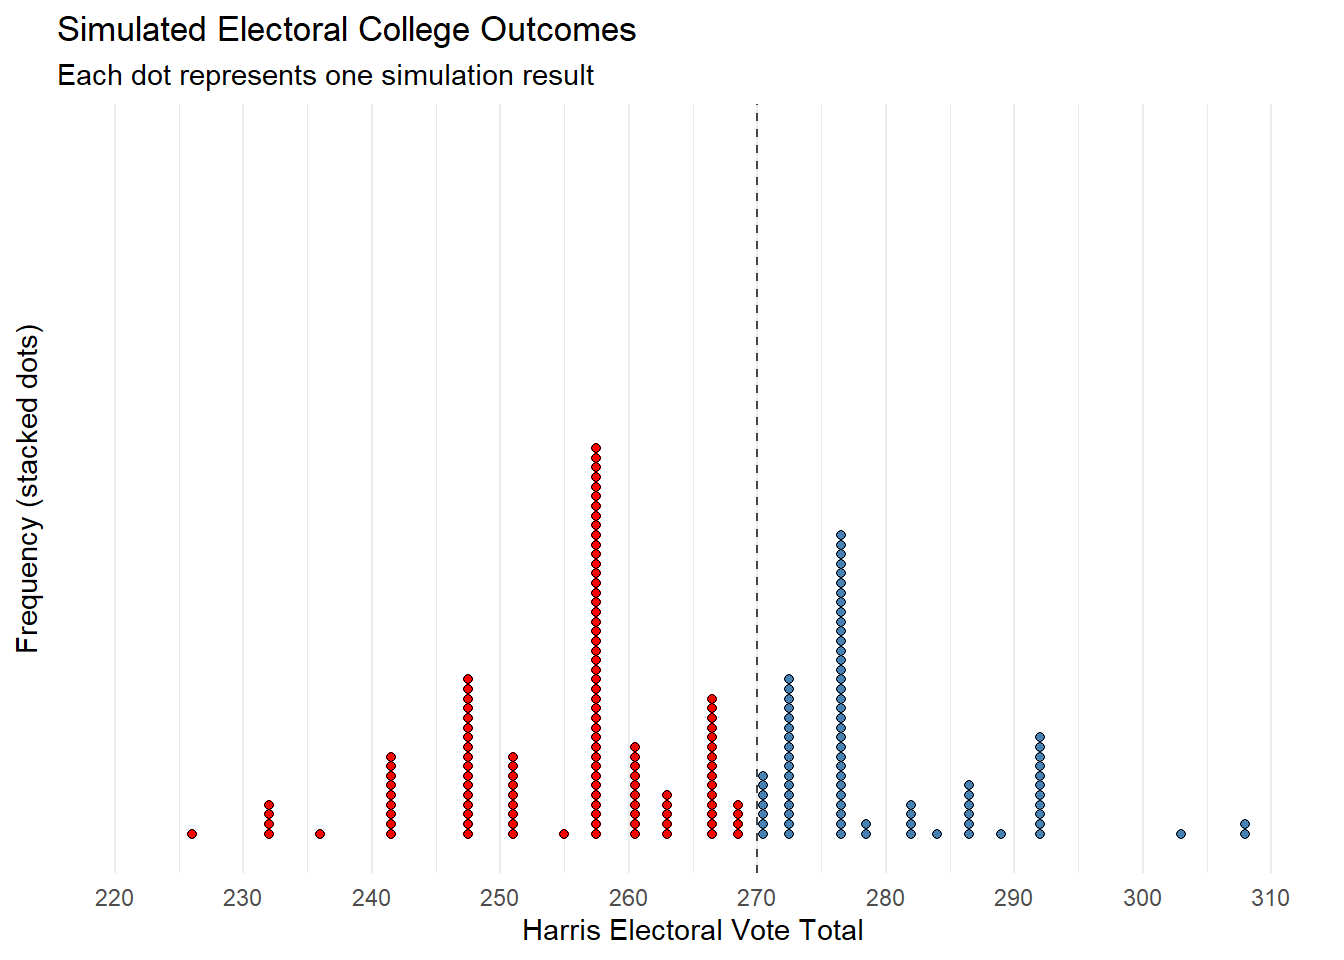
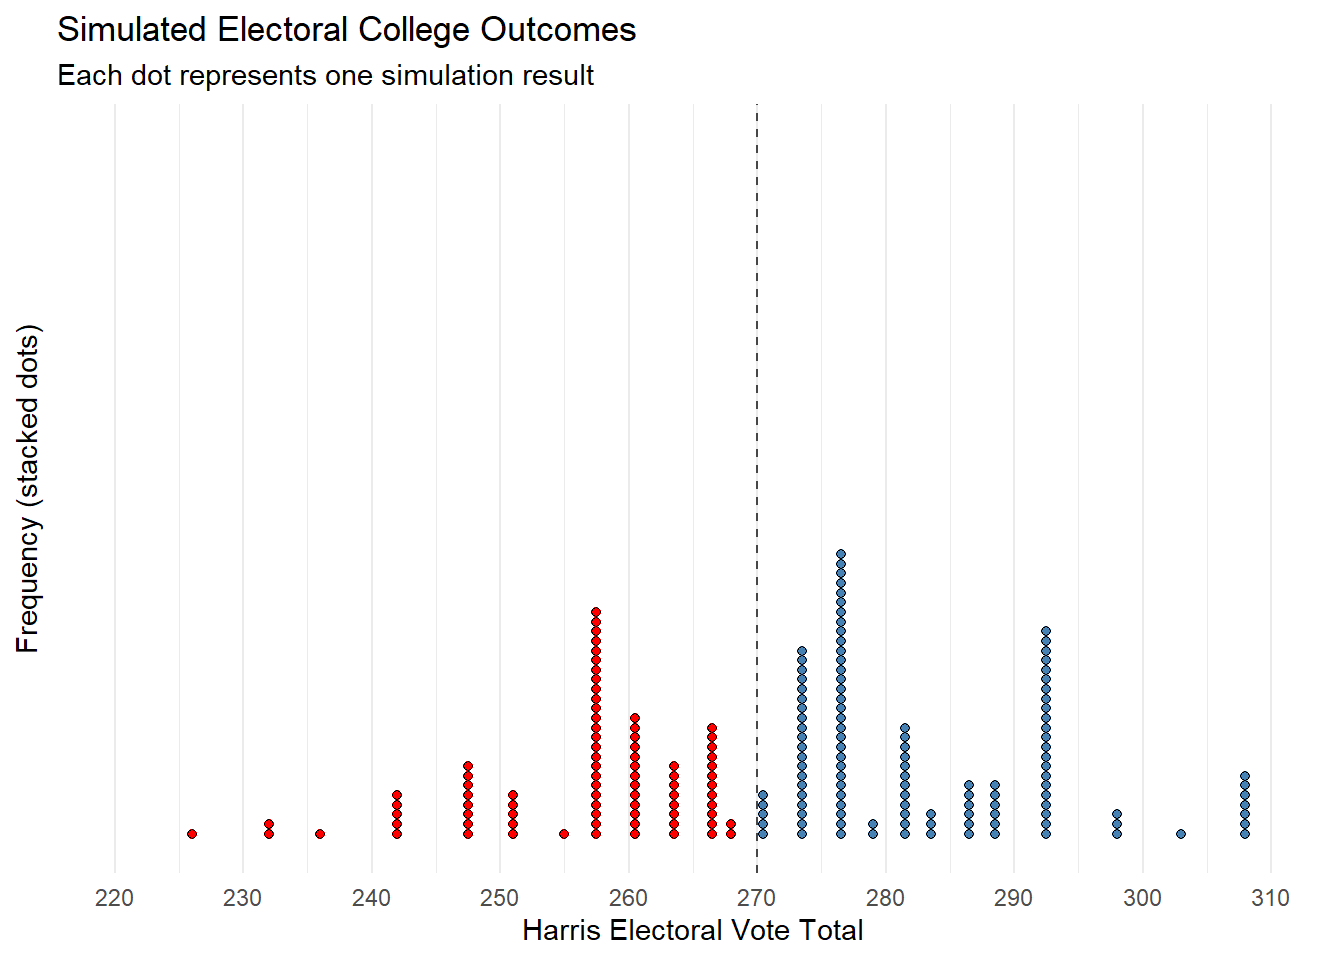
done w/ code part 4

diff --git a/public/post/2024/11/04/final-prediction/index.html b/public/post/2024/11/04/final-prediction/index.html
@@ -52,21 +52,27 @@
 <script src="https://example.org/post/2024/11/04/final-prediction/index_files/plotly-main/plotly-latest.min.js"></script>
 <script src="https://example.org/post/2024/11/04/final-prediction/index_files/kePrint/kePrint.js"></script>
 <link href="https://example.org/post/2024/11/04/final-prediction/index_files/lightable/lightable.css" rel="stylesheet" />
-<pre><code>##                         state prediction_2024
-## Arizona               Arizona        47.79392
-## Georgia               Georgia        49.23295
-## Michigan             Michigan        51.41176
-## Nevada                 Nevada        51.68528
-## North Carolina North Carolina        49.24651
-## Pennsylvania     Pennsylvania        50.30364
-## Wisconsin           Wisconsin        50.68785
-</code></pre>
-<p>#Model 1</p>
-<p>= _0 + _1  + _2  + _3  + _4  + _5  +</p>
-<h1 id="model-2">Model 2</h1>
-<p>= _0 + _1  + _2  + _3  + _4  + _5  +</p>
-<h1 id="model-3">Model 3</h1>
-<p>= _0 + _1  + _2  + _3  + _4  + _5  + _6  + _7  + _8  + _9  +</p>
+<h1 id="model-equations">Model Equations</h1>
+<ol>
+<li>
+<p>Model 1:
+</p>
+$$
+    D\_pv2p = \alpha + \beta_1(\text{state}) + \beta_2(\text{D\_pv2p\_lag1}) + \beta_3(\text{D\_pv2p\_lag2}) + \beta_4(\text{updated\_rdpi} \times \text{incumbent\_party}) + \beta_5(\text{dpi\_inflation\_adjusted} \times \text{incumbent\_party}) + \epsilon
+    $$</li>
+<li>
+<p>Model 2:
+</p>
+$$
+    D\_pv2p = \alpha + \beta_1(\text{state}) + \beta_2(\text{polling\_trend\_5\_1}) + \beta_3(\text{polling\_trend\_10\_6}) + \beta_4(\text{current\_week}) + \beta_5(\text{support\_DEM\_1}) + \beta_6(\text{support\_DEM\_2}) + \beta_7(\text{support\_DEM\_3}) + \epsilon
+    $$</li>
+<li>
+<p>Model 3:
+</p>
+$$
+    D\_pv2p = \alpha + \beta_1(\text{state}) + \beta_2(\text{D\_pv2p\_lag1}) + \beta_3(\text{D\_pv2p\_lag2}) + \beta_4(\text{support\_DEM\_1}) + \beta_5(\text{polling\_trend\_5\_1}) + \beta_6(\text{polling\_trend\_10\_6}) + \beta_7(\text{dpi\_inflation\_adjusted} \times \text{incumbent\_party}) + \beta_8(\text{unemployment\_growth\_quarterly} \times \text{incumbent\_party}) + \beta_9(\text{updated\_rdpi} \times \text{incumbent\_party}) + \epsilon
+    $$</li>
+</ol>
 <h1 id="weights">Weights</h1>
 <table class="table table-striped table-hover table-condensed table-responsive" style="width: auto !important; margin-left: auto; margin-right: auto;">
 <caption>
@@ -210,7 +216,7 @@ RMSE.2020
 Arizona
 </td>
 <td style="text-align:right;width: 6em; text-align: center;">
-0.6380
+0.6719
 </td>
 </tr>
 <tr>
@@ -218,7 +224,7 @@ Arizona
 Georgia
 </td>
 <td style="text-align:right;width: 6em; text-align: center;">
-0.2305
+0.0435
 </td>
 </tr>
 <tr>
@@ -226,7 +232,7 @@ Georgia
 Michigan
 </td>
 <td style="text-align:right;width: 6em; text-align: center;">
-1.3075
+1.5867
 </td>
 </tr>
 <tr>
@@ -234,7 +240,7 @@ Michigan
 Nevada
 </td>
 <td style="text-align:right;width: 6em; text-align: center;">
-1.6513
+1.5505
 </td>
 </tr>
 <tr>
@@ -242,7 +248,7 @@ Nevada
 North Carolina
 </td>
 <td style="text-align:right;width: 6em; text-align: center;">
-0.7219
+0.5768
 </td>
 </tr>
 <tr>
@@ -250,7 +256,7 @@ North Carolina
 Pennsylvania
 </td>
 <td style="text-align:right;width: 6em; text-align: center;">
-1.5780
+1.7680
 </td>
 </tr>
 <tr>
@@ -258,7 +264,7 @@ Pennsylvania
 Wisconsin
 </td>
 <td style="text-align:right;width: 6em; text-align: center;">
-2.4075
+2.0518
 </td>
 </tr>
 </tbody>
@@ -283,7 +289,7 @@ RMSE.2020
 Arizona
 </td>
 <td style="text-align:right;width: 6em; text-align: center;">
-0.3434
+0.3713
 </td>
 </tr>
 <tr>
@@ -291,7 +297,7 @@ Arizona
 Georgia
 </td>
 <td style="text-align:right;width: 6em; text-align: center;">
-0.5773
+0.2846
 </td>
 </tr>
 <tr>
@@ -299,7 +305,7 @@ Georgia
 Michigan
 </td>
 <td style="text-align:right;width: 6em; text-align: center;">
-0.7380
+1.1598
 </td>
 </tr>
 <tr>
@@ -307,7 +313,7 @@ Michigan
 Nevada
 </td>
 <td style="text-align:right;width: 6em; text-align: center;">
-1.3067
+1.2268
 </td>
 </tr>
 <tr>
@@ -315,7 +321,7 @@ Nevada
 North Carolina
 </td>
 <td style="text-align:right;width: 6em; text-align: center;">
-1.7392
+1.5875
 </td>
 </tr>
 <tr>
@@ -323,7 +329,7 @@ North Carolina
 Pennsylvania
 </td>
 <td style="text-align:right;width: 6em; text-align: center;">
-1.9944
+2.4631
 </td>
 </tr>
 <tr>
@@ -331,7 +337,7 @@ Pennsylvania
 Wisconsin
 </td>
 <td style="text-align:right;width: 6em; text-align: center;">
-1.9922
+1.9281
 </td>
 </tr>
 </tbody>
@@ -411,7 +417,7 @@ Wisconsin
 </tbody>
 </table>
 <div class="plotly html-widget html-fill-item" id="htmlwidget-1" style="width:672px;height:480px;"></div>
-<script type="application/json" data-for="htmlwidget-1">{"x":{"visdat":{"1160196b4bd0":["function () ","plotlyVisDat"]},"cur_data":"1160196b4bd0","attrs":{"1160196b4bd0":{"locations":{},"locationmode":"USA-states","z":{},"text":{},"hoverinfo":"text","colorscale":[["0","darkred"],["0.5","white"],["1","blue"]],"zmin":-7.5,"zmid":0,"zmax":7.5,"colorbar":{"title":"Dem. Voting Margin (%)"},"alpha_stroke":1,"sizes":[10,100],"spans":[1,20],"type":"choropleth"}},"layout":{"margin":{"b":40,"l":60,"t":25,"r":10},"title":{"text":"2024 Swing State Voting Margins","y":0.94999999999999996,"x":0.5,"xanchor":"center","yanchor":"top"},"geo":{"scope":"usa","projection":{"type":"albers usa"},"showlakes":true,"lakecolor":"rgba(173,216,230,1)","showcountries":false,"showcoastlines":false,"coastlinecolor":"rgba(255,255,255,1)","showframe":false},"scene":{"zaxis":{"title":"Margin"}},"hovermode":"closest","showlegend":false,"legend":{"yanchor":"top","y":0.5}},"source":"A","config":{"modeBarButtonsToAdd":["hoverclosest","hovercompare"],"showSendToCloud":false},"data":[{"colorbar":{"title":"Dem. Voting Margin (%)","ticklen":2,"len":0.5,"lenmode":"fraction","y":1,"yanchor":"top"},"colorscale":[["0","darkred"],["0.5","white"],["1","blue"]],"showscale":true,"locations":["AZ","GA","MI","NV","NC","PA","WI"],"locationmode":"USA-states","z":[-4.4121567351972715,-1.5341034414037864,2.8235235667392828,3.3705583134253061,-1.5069849367033186,0.60727480942513523,1.3756902964105535],"text":["State: Arizona <br>Margin: -4.41 %","State: Georgia <br>Margin: -1.53 %","State: Michigan <br>Margin: 2.82 %","State: Nevada <br>Margin: 3.37 %","State: North Carolina <br>Margin: -1.51 %","State: Pennsylvania <br>Margin: 0.61 %","State: Wisconsin <br>Margin: 1.38 %"],"hoverinfo":["text","text","text","text","text","text","text"],"zmin":-7.5,"zmid":0,"zmax":7.5,"type":"choropleth","marker":{"line":{"color":"rgba(31,119,180,1)"}},"frame":null}],"highlight":{"on":"plotly_click","persistent":false,"dynamic":false,"selectize":false,"opacityDim":0.20000000000000001,"selected":{"opacity":1},"debounce":0},"shinyEvents":["plotly_hover","plotly_click","plotly_selected","plotly_relayout","plotly_brushed","plotly_brushing","plotly_clickannotation","plotly_doubleclick","plotly_deselect","plotly_afterplot","plotly_sunburstclick"],"base_url":"https://plot.ly"},"evals":[],"jsHooks":[]}</script>
+<script type="application/json" data-for="htmlwidget-1">{"x":{"visdat":{"16c85d2a4ae3":["function () ","plotlyVisDat"]},"cur_data":"16c85d2a4ae3","attrs":{"16c85d2a4ae3":{"locations":{},"locationmode":"USA-states","z":{},"text":{},"hoverinfo":"text","colorscale":[["0","darkred"],["0.5","white"],["1","blue"]],"zmin":-10,"zmid":0,"zmax":10,"colorbar":{"title":"Dem. Voting Margin (%)","y":0.5,"yanchor":"middle"},"alpha_stroke":1,"sizes":[10,100],"spans":[1,20],"type":"choropleth"}},"layout":{"margin":{"b":40,"l":60,"t":25,"r":10},"title":{"text":"2024 Swing State Voting Margins","y":0.94999999999999996,"x":0.5,"xanchor":"center","yanchor":"top"},"geo":{"scope":"usa","projection":{"type":"albers usa"},"showlakes":false,"showcountries":false,"showcoastlines":false,"coastlinecolor":"rgba(255,255,255,1)","showframe":false},"scene":{"zaxis":{"title":"Margin"}},"hovermode":"closest","showlegend":false,"legend":{"yanchor":"top","y":0.5}},"source":"A","config":{"modeBarButtonsToAdd":["hoverclosest","hovercompare"],"showSendToCloud":false},"data":[{"colorbar":{"title":"Dem. Voting Margin (%)","ticklen":2,"y":0.5,"yanchor":"middle","len":0.5,"lenmode":"fraction"},"colorscale":[["0","darkred"],["0.5","white"],["1","blue"]],"showscale":true,"locations":["AZ","GA","MI","NV","NC","PA","WI"],"locationmode":"USA-states","z":[-4.4121567351972715,-1.5341034414037864,2.8235235667392828,3.3705583134253061,-1.5069849367033186,0.60727480942513523,1.3756902964105535],"text":["State: Arizona <br>Margin: -4.41 %","State: Georgia <br>Margin: -1.53 %","State: Michigan <br>Margin: 2.82 %","State: Nevada <br>Margin: 3.37 %","State: North Carolina <br>Margin: -1.51 %","State: Pennsylvania <br>Margin: 0.61 %","State: Wisconsin <br>Margin: 1.38 %"],"hoverinfo":["text","text","text","text","text","text","text"],"zmin":-10,"zmid":0,"zmax":10,"type":"choropleth","marker":{"line":{"color":"rgba(31,119,180,1)"}},"frame":null}],"highlight":{"on":"plotly_click","persistent":false,"dynamic":false,"selectize":false,"opacityDim":0.20000000000000001,"selected":{"opacity":1},"debounce":0},"shinyEvents":["plotly_hover","plotly_click","plotly_selected","plotly_relayout","plotly_brushed","plotly_brushing","plotly_clickannotation","plotly_doubleclick","plotly_deselect","plotly_afterplot","plotly_sunburstclick"],"base_url":"https://plot.ly"},"evals":[],"jsHooks":[]}</script>
 <h1 id="simulations">Simulations</h1>
 <img src="https://example.org/post/2024/11/04/final-prediction/index_files/figure-html/unnamed-chunk-34-1.png" width="672" />
 <table class="table table-striped table-hover table-condensed table-responsive" style="width: auto !important; margin-left: auto; margin-right: auto;">
@@ -434,13 +440,13 @@ Harris Victory %
 <tbody>
 <tr>
 <td style="text-align:right;width: 5em; text-align: center;">
-412
+589
 </td>
 <td style="text-align:right;width: 5em; text-align: center;">
-588
+411
 </td>
 <td style="text-align:left;width: 5em; text-align: center;">
-41.2%
+58.9%
 </td>
 </tr>
 </tbody>

diff --git a/content/post/2024-11-04-final-prediction/index.md b/content/post/2024-11-04-final-prediction/index.md
@@ -27,26 +27,22 @@ tags: []
 
 <link href="{{< blogdown/postref >}}index_files/lightable/lightable.css" rel="stylesheet" />
 
-    ##                         state prediction_2024
-    ## Arizona               Arizona        47.79392
-    ## Georgia               Georgia        49.23295
-    ## Michigan             Michigan        51.41176
-    ## Nevada                 Nevada        51.68528
-    ## North Carolina North Carolina        49.24651
-    ## Pennsylvania     Pennsylvania        50.30364
-    ## Wisconsin           Wisconsin        50.68785
+# Model Equations
 
-\#Model 1
+1.  Model 1:
+    $$
+    D\_pv2p = \alpha + \beta_1(\text{state}) + \beta_2(\text{D\_pv2p\_lag1}) + \beta_3(\text{D\_pv2p\_lag2}) + \beta_4(\text{updated\_rdpi} \times \text{incumbent\_party}) + \beta_5(\text{dpi\_inflation\_adjusted} \times \text{incumbent\_party}) + \epsilon
+    $$
 
-= \_0 + \_1  + \_2  + \_3  + \_4  + \_5  +
+2.  Model 2:
+    $$
+    D\_pv2p = \alpha + \beta_1(\text{state}) + \beta_2(\text{polling\_trend\_5\_1}) + \beta_3(\text{polling\_trend\_10\_6}) + \beta_4(\text{current\_week}) + \beta_5(\text{support\_DEM\_1}) + \beta_6(\text{support\_DEM\_2}) + \beta_7(\text{support\_DEM\_3}) + \epsilon
+    $$
 
-# Model 2
-
-= \_0 + \_1  + \_2  + \_3  + \_4  + \_5  +
-
-# Model 3
-
-= \_0 + \_1  + \_2  + \_3  + \_4  + \_5  + \_6  + \_7  + \_8  + \_9  +
+3.  Model 3:
+    $$
+    D\_pv2p = \alpha + \beta_1(\text{state}) + \beta_2(\text{D\_pv2p\_lag1}) + \beta_3(\text{D\_pv2p\_lag2}) + \beta_4(\text{support\_DEM\_1}) + \beta_5(\text{polling\_trend\_5\_1}) + \beta_6(\text{polling\_trend\_10\_6}) + \beta_7(\text{dpi\_inflation\_adjusted} \times \text{incumbent\_party}) + \beta_8(\text{unemployment\_growth\_quarterly} \times \text{incumbent\_party}) + \beta_9(\text{updated\_rdpi} \times \text{incumbent\_party}) + \epsilon
+    $$
 
 # Weights
 
@@ -194,7 +190,7 @@ RMSE.2020
 Arizona
 </td>
 <td style="text-align:right;width: 6em; text-align: center;">
-0.6380
+0.6719
 </td>
 </tr>
 <tr>
@@ -202,7 +198,7 @@ Arizona
 Georgia
 </td>
 <td style="text-align:right;width: 6em; text-align: center;">
-0.2305
+0.0435
 </td>
 </tr>
 <tr>
@@ -210,7 +206,7 @@ Georgia
 Michigan
 </td>
 <td style="text-align:right;width: 6em; text-align: center;">
-1.3075
+1.5867
 </td>
 </tr>
 <tr>
@@ -218,7 +214,7 @@ Michigan
 Nevada
 </td>
 <td style="text-align:right;width: 6em; text-align: center;">
-1.6513
+1.5505
 </td>
 </tr>
 <tr>
@@ -226,7 +222,7 @@ Nevada
 North Carolina
 </td>
 <td style="text-align:right;width: 6em; text-align: center;">
-0.7219
+0.5768
 </td>
 </tr>
 <tr>
@@ -234,7 +230,7 @@ North Carolina
 Pennsylvania
 </td>
 <td style="text-align:right;width: 6em; text-align: center;">
-1.5780
+1.7680
 </td>
 </tr>
 <tr>
@@ -242,7 +238,7 @@ Pennsylvania
 Wisconsin
 </td>
 <td style="text-align:right;width: 6em; text-align: center;">
-2.4075
+2.0518
 </td>
 </tr>
 </tbody>
@@ -267,7 +263,7 @@ RMSE.2020
 Arizona
 </td>
 <td style="text-align:right;width: 6em; text-align: center;">
-0.3434
+0.3713
 </td>
 </tr>
 <tr>
@@ -275,7 +271,7 @@ Arizona
 Georgia
 </td>
 <td style="text-align:right;width: 6em; text-align: center;">
-0.5773
+0.2846
 </td>
 </tr>
 <tr>
@@ -283,7 +279,7 @@ Georgia
 Michigan
 </td>
 <td style="text-align:right;width: 6em; text-align: center;">
-0.7380
+1.1598
 </td>
 </tr>
 <tr>
@@ -291,7 +287,7 @@ Michigan
 Nevada
 </td>
 <td style="text-align:right;width: 6em; text-align: center;">
-1.3067
+1.2268
 </td>
 </tr>
 <tr>
@@ -299,7 +295,7 @@ Nevada
 North Carolina
 </td>
 <td style="text-align:right;width: 6em; text-align: center;">
-1.7392
+1.5875
 </td>
 </tr>
 <tr>
@@ -307,7 +303,7 @@ North Carolina
 Pennsylvania
 </td>
 <td style="text-align:right;width: 6em; text-align: center;">
-1.9944
+2.4631
 </td>
 </tr>
 <tr>
@@ -315,7 +311,7 @@ Pennsylvania
 Wisconsin
 </td>
 <td style="text-align:right;width: 6em; text-align: center;">
-1.9922
+1.9281
 </td>
 </tr>
 </tbody>
@@ -397,7 +393,7 @@ Wisconsin
 </tbody>
 </table>
 <div class="plotly html-widget html-fill-item" id="htmlwidget-1" style="width:672px;height:480px;"></div>
-<script type="application/json" data-for="htmlwidget-1">{"x":{"visdat":{"1160196b4bd0":["function () ","plotlyVisDat"]},"cur_data":"1160196b4bd0","attrs":{"1160196b4bd0":{"locations":{},"locationmode":"USA-states","z":{},"text":{},"hoverinfo":"text","colorscale":[["0","darkred"],["0.5","white"],["1","blue"]],"zmin":-7.5,"zmid":0,"zmax":7.5,"colorbar":{"title":"Dem. Voting Margin (%)"},"alpha_stroke":1,"sizes":[10,100],"spans":[1,20],"type":"choropleth"}},"layout":{"margin":{"b":40,"l":60,"t":25,"r":10},"title":{"text":"2024 Swing State Voting Margins","y":0.94999999999999996,"x":0.5,"xanchor":"center","yanchor":"top"},"geo":{"scope":"usa","projection":{"type":"albers usa"},"showlakes":true,"lakecolor":"rgba(173,216,230,1)","showcountries":false,"showcoastlines":false,"coastlinecolor":"rgba(255,255,255,1)","showframe":false},"scene":{"zaxis":{"title":"Margin"}},"hovermode":"closest","showlegend":false,"legend":{"yanchor":"top","y":0.5}},"source":"A","config":{"modeBarButtonsToAdd":["hoverclosest","hovercompare"],"showSendToCloud":false},"data":[{"colorbar":{"title":"Dem. Voting Margin (%)","ticklen":2,"len":0.5,"lenmode":"fraction","y":1,"yanchor":"top"},"colorscale":[["0","darkred"],["0.5","white"],["1","blue"]],"showscale":true,"locations":["AZ","GA","MI","NV","NC","PA","WI"],"locationmode":"USA-states","z":[-4.4121567351972715,-1.5341034414037864,2.8235235667392828,3.3705583134253061,-1.5069849367033186,0.60727480942513523,1.3756902964105535],"text":["State: Arizona <br>Margin: -4.41 %","State: Georgia <br>Margin: -1.53 %","State: Michigan <br>Margin: 2.82 %","State: Nevada <br>Margin: 3.37 %","State: North Carolina <br>Margin: -1.51 %","State: Pennsylvania <br>Margin: 0.61 %","State: Wisconsin <br>Margin: 1.38 %"],"hoverinfo":["text","text","text","text","text","text","text"],"zmin":-7.5,"zmid":0,"zmax":7.5,"type":"choropleth","marker":{"line":{"color":"rgba(31,119,180,1)"}},"frame":null}],"highlight":{"on":"plotly_click","persistent":false,"dynamic":false,"selectize":false,"opacityDim":0.20000000000000001,"selected":{"opacity":1},"debounce":0},"shinyEvents":["plotly_hover","plotly_click","plotly_selected","plotly_relayout","plotly_brushed","plotly_brushing","plotly_clickannotation","plotly_doubleclick","plotly_deselect","plotly_afterplot","plotly_sunburstclick"],"base_url":"https://plot.ly"},"evals":[],"jsHooks":[]}</script>
+<script type="application/json" data-for="htmlwidget-1">{"x":{"visdat":{"16c85d2a4ae3":["function () ","plotlyVisDat"]},"cur_data":"16c85d2a4ae3","attrs":{"16c85d2a4ae3":{"locations":{},"locationmode":"USA-states","z":{},"text":{},"hoverinfo":"text","colorscale":[["0","darkred"],["0.5","white"],["1","blue"]],"zmin":-10,"zmid":0,"zmax":10,"colorbar":{"title":"Dem. Voting Margin (%)","y":0.5,"yanchor":"middle"},"alpha_stroke":1,"sizes":[10,100],"spans":[1,20],"type":"choropleth"}},"layout":{"margin":{"b":40,"l":60,"t":25,"r":10},"title":{"text":"2024 Swing State Voting Margins","y":0.94999999999999996,"x":0.5,"xanchor":"center","yanchor":"top"},"geo":{"scope":"usa","projection":{"type":"albers usa"},"showlakes":false,"showcountries":false,"showcoastlines":false,"coastlinecolor":"rgba(255,255,255,1)","showframe":false},"scene":{"zaxis":{"title":"Margin"}},"hovermode":"closest","showlegend":false,"legend":{"yanchor":"top","y":0.5}},"source":"A","config":{"modeBarButtonsToAdd":["hoverclosest","hovercompare"],"showSendToCloud":false},"data":[{"colorbar":{"title":"Dem. Voting Margin (%)","ticklen":2,"y":0.5,"yanchor":"middle","len":0.5,"lenmode":"fraction"},"colorscale":[["0","darkred"],["0.5","white"],["1","blue"]],"showscale":true,"locations":["AZ","GA","MI","NV","NC","PA","WI"],"locationmode":"USA-states","z":[-4.4121567351972715,-1.5341034414037864,2.8235235667392828,3.3705583134253061,-1.5069849367033186,0.60727480942513523,1.3756902964105535],"text":["State: Arizona <br>Margin: -4.41 %","State: Georgia <br>Margin: -1.53 %","State: Michigan <br>Margin: 2.82 %","State: Nevada <br>Margin: 3.37 %","State: North Carolina <br>Margin: -1.51 %","State: Pennsylvania <br>Margin: 0.61 %","State: Wisconsin <br>Margin: 1.38 %"],"hoverinfo":["text","text","text","text","text","text","text"],"zmin":-10,"zmid":0,"zmax":10,"type":"choropleth","marker":{"line":{"color":"rgba(31,119,180,1)"}},"frame":null}],"highlight":{"on":"plotly_click","persistent":false,"dynamic":false,"selectize":false,"opacityDim":0.20000000000000001,"selected":{"opacity":1},"debounce":0},"shinyEvents":["plotly_hover","plotly_click","plotly_selected","plotly_relayout","plotly_brushed","plotly_brushing","plotly_clickannotation","plotly_doubleclick","plotly_deselect","plotly_afterplot","plotly_sunburstclick"],"base_url":"https://plot.ly"},"evals":[],"jsHooks":[]}</script>
 
 # Simulations
 
@@ -423,13 +419,13 @@ Harris Victory %
 <tbody>
 <tr>
 <td style="text-align:right;width: 5em; text-align: center;">
-412
+589
 </td>
 <td style="text-align:right;width: 5em; text-align: center;">
-588
+411
 </td>
 <td style="text-align:left;width: 5em; text-align: center;">
-41.2%
+58.9%
 </td>
 </tr>
 </tbody>
